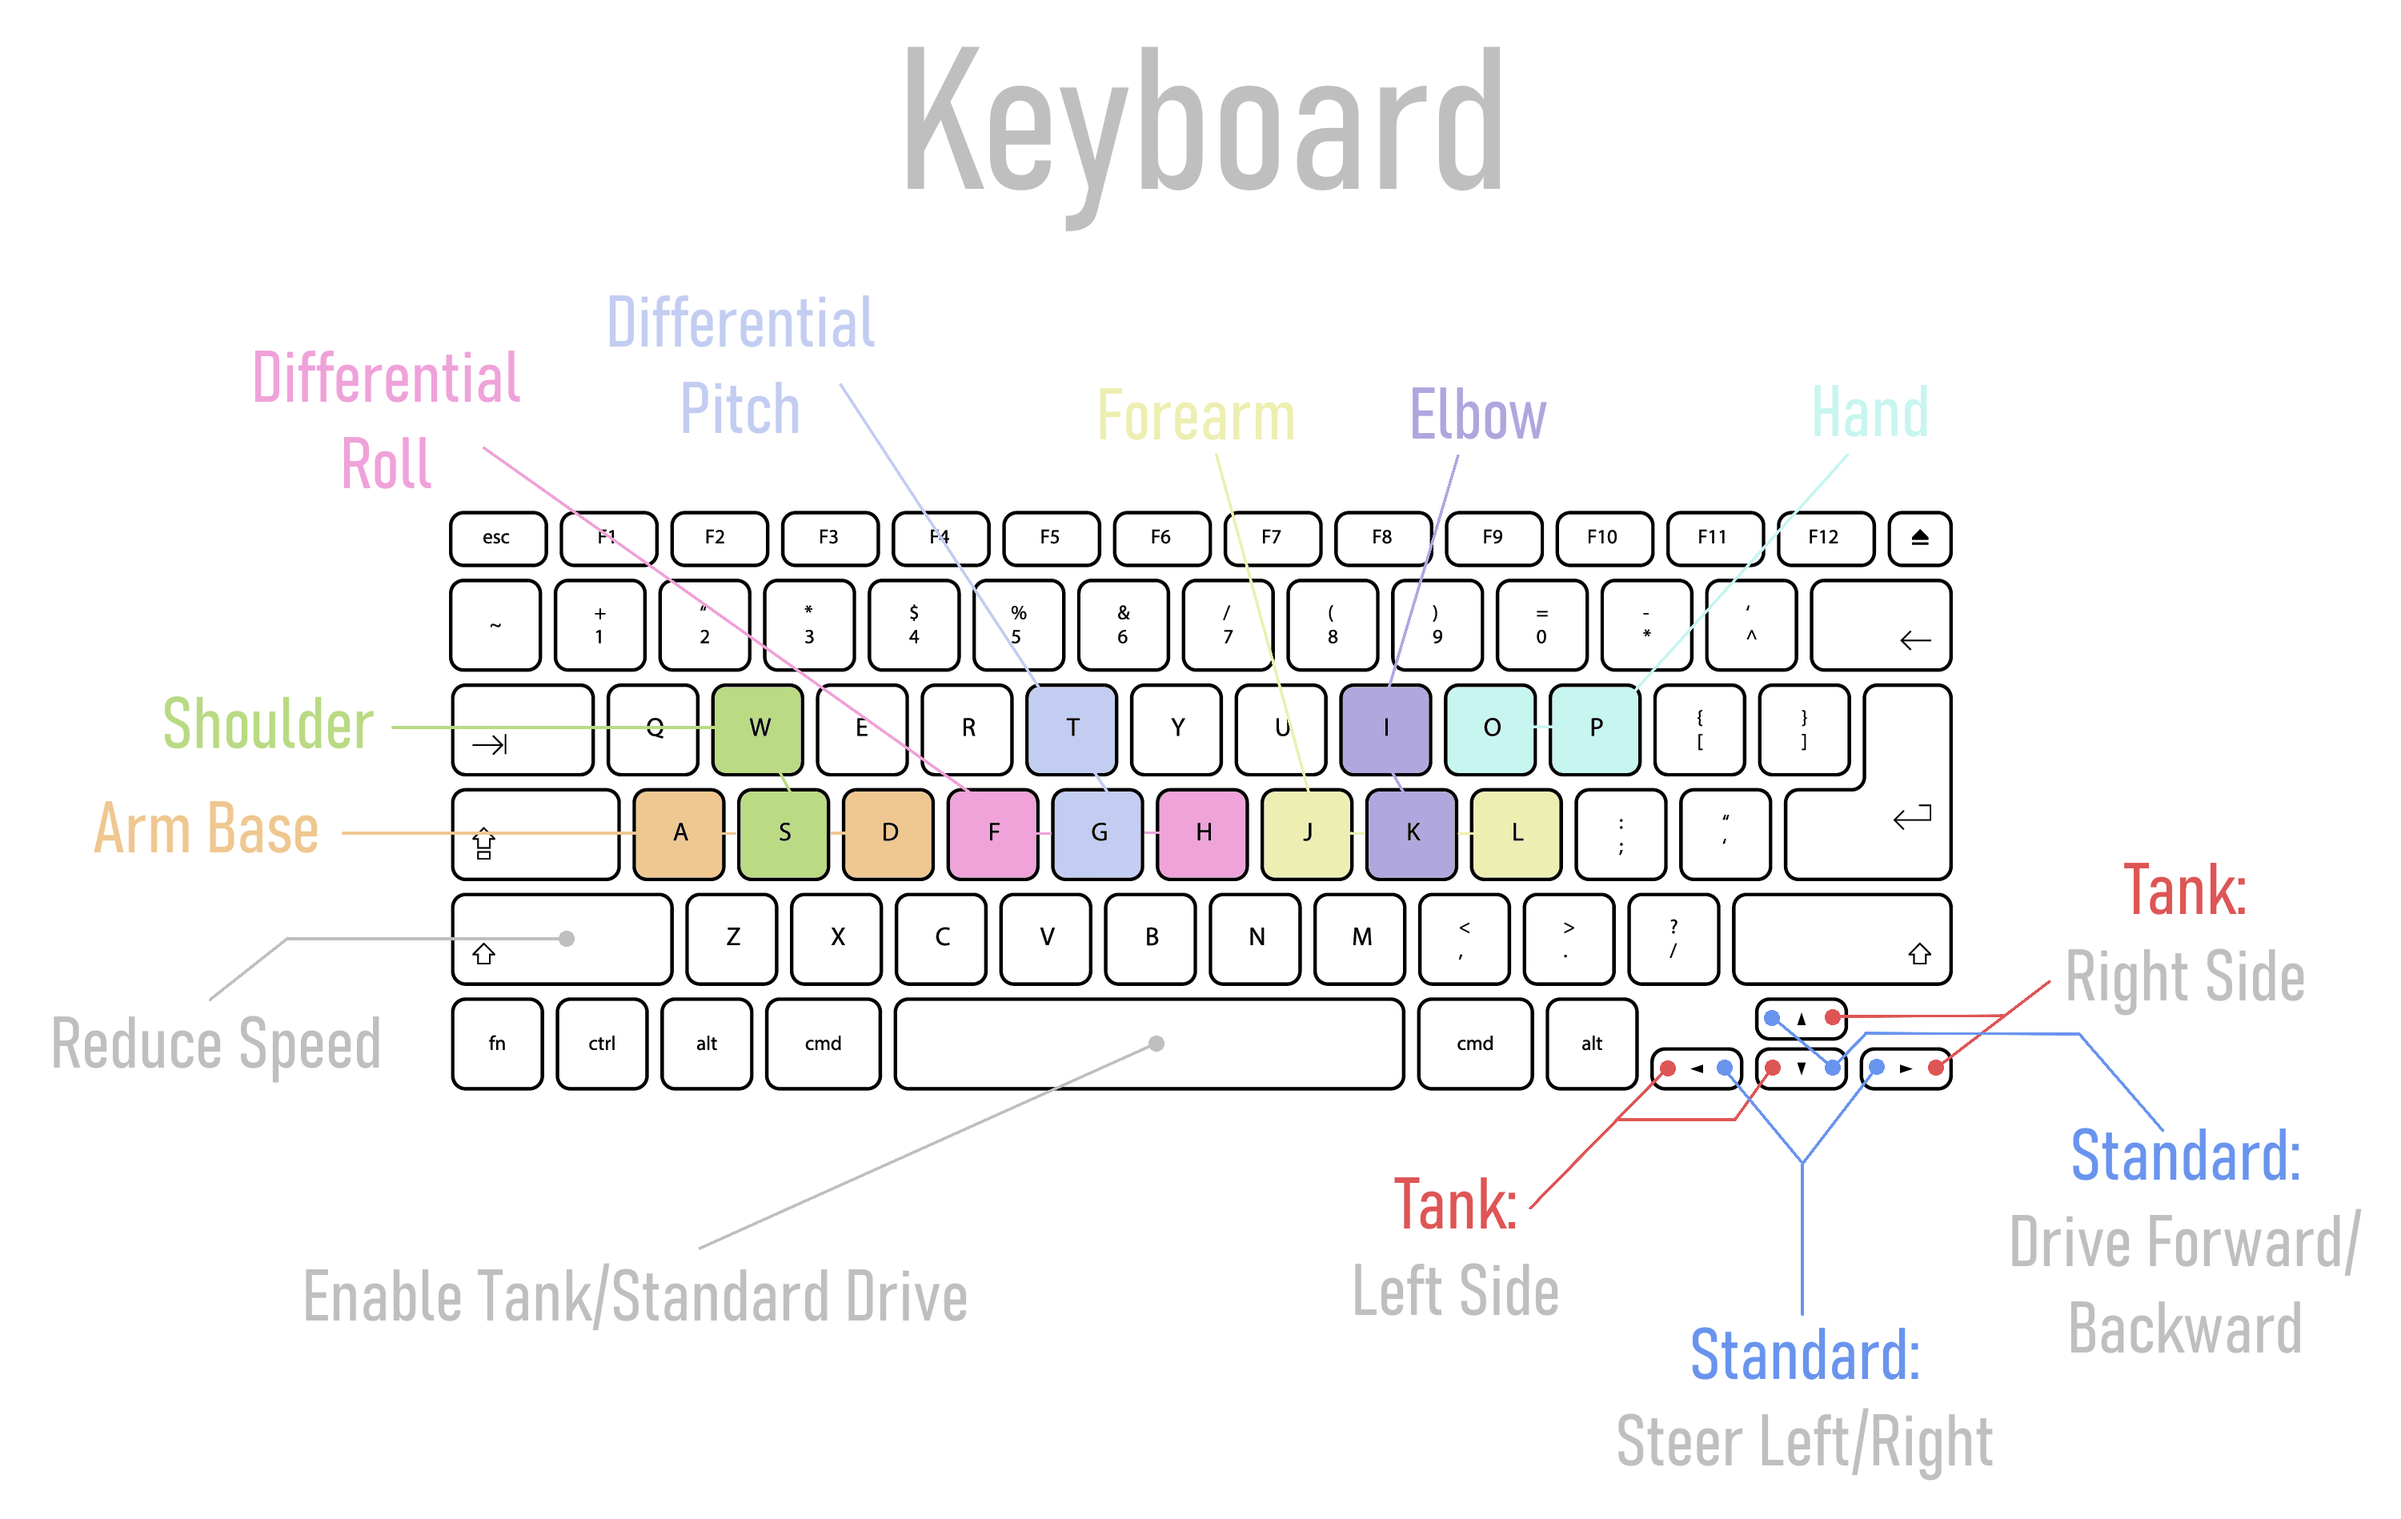
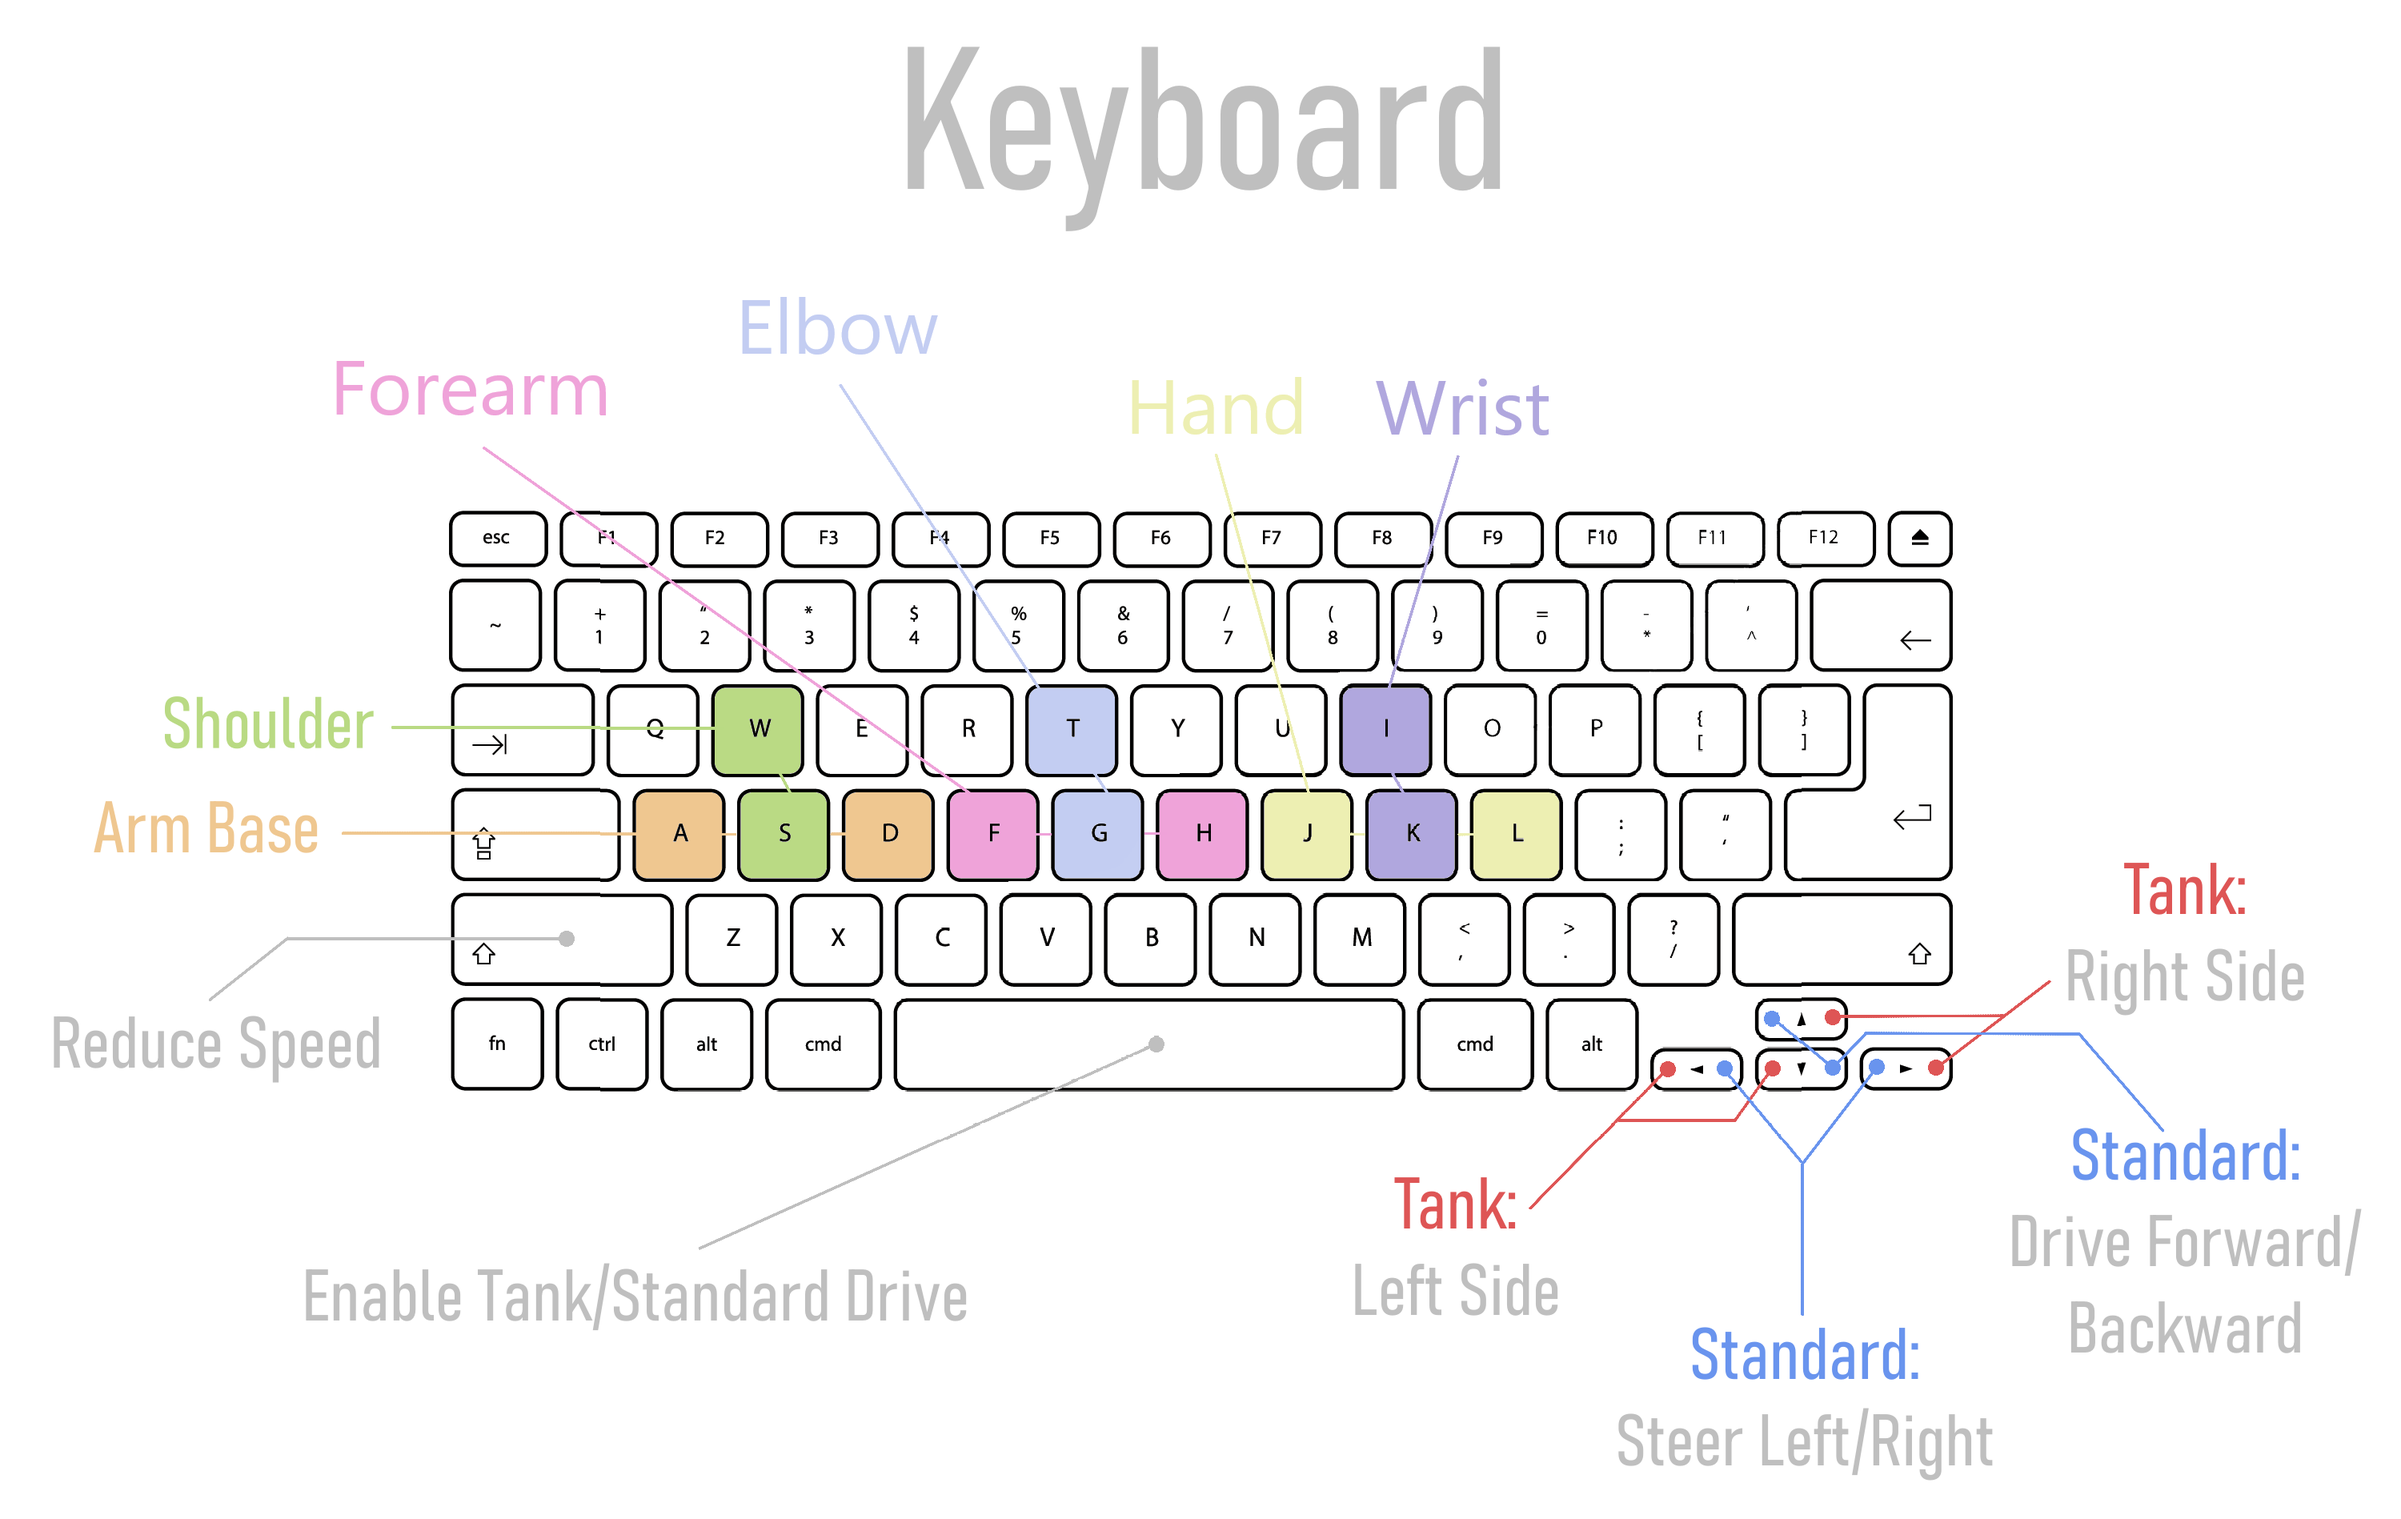
Fix arm rendering (#14)
* Update README to display new name for the wrist joint.

* Change any instances of 'differential' to 'wrist'

* Change control bindings

* Remove print statement

* Update help graphics

* Update messages version in README

* Reverse direction of wrist movement

diff --git a/src/store/inputSlice.js b/src/store/inputSlice.js
@@ -19,9 +19,7 @@ const gamepadTemplate = {
   "LB": false,
   "RB": false,
   "DPadUp": false,
-  "DPadDown": false,
-  "DPadLeft": false,
-  "DPadRight": false
+  "DPadDown": false
 };
 
 const initialState = {
@@ -44,8 +42,7 @@ const initialState = {
       shoulder: 0,
       elbow: 0,
       forearm: 0,
-      differentialRoll: 0,
-      differentialPitch: 0,
+      wrist: 0,
       hand: 0,
     },
     science: {
@@ -77,10 +74,7 @@ const inputSlice = createSlice({
       const { gamepadName, axisName, value } = action.payload;
       // linux maps dpad to axes, so map them to buttons
       // also rescale triggers from [-1,1] -> [0,1], if necessary
-      if (axisName === "DPadX") {
-        state[gamepadName]["DPadLeft"] = value < 0;
-        state[gamepadName]["DPadRight"] = value > 0;
-      } else if (axisName === "DPadY") {
+      if (axisName === "DPadY") {
         state[gamepadName]["DPadDown"] = value < 0;
         state[gamepadName]["DPadUp"] = value > 0;
       } else if (isLinux() && (axisName === "LeftTrigger" || axisName === "RightTrigger")) {
@@ -174,20 +168,17 @@ function computeArmInput(state) {
     getAxisFromKeys(pressedKeys, "S", "W");
   armInput.elbow =
     peripheralGamepad["RightStickY"] +
-    getAxisFromKeys(pressedKeys, "K", "I");
+    getAxisFromKeys(pressedKeys, "G", "T");
   armInput.forearm =
     peripheralGamepad["RightStickX"] +
-    getAxisFromKeys(pressedKeys, "J", "L");
+    getAxisFromKeys(pressedKeys, "F", "H");
+  armInput.wrist =
+    getAxisFromButtons(peripheralGamepad, "DPadDown", "DPadUp") +
+    getAxisFromKeys(pressedKeys, "K", "I");
   armInput.hand =
     peripheralGamepad["LeftTrigger"] -
     peripheralGamepad["RightTrigger"] +
-    getAxisFromKeys(pressedKeys, "P", "O");
-  armInput.differentialPitch =
-    getAxisFromButtons(peripheralGamepad, "DPadDown", "DPadUp") +
-    getAxisFromKeys(pressedKeys, "G", "T");
-  armInput.differentialRoll =
-    getAxisFromButtons(peripheralGamepad, "DPadLeft", "DPadRight") +
-    getAxisFromKeys(pressedKeys, "F", "H");
+    getAxisFromKeys(pressedKeys, "J", "L");
 
   // Apply precision controls and clamp.
   const armPrecisionMultiplier = getPrecisionMultiplier(pressedKeys, peripheralGamepad);

diff --git a/src/components/roverModel/RoverModel.js b/src/components/roverModel/RoverModel.js
@@ -14,7 +14,7 @@ import armBaseMesh from "./mesh/armBase.fbx";
 import lowerArmMesh from "./mesh/lowerArm.fbx";
 import upperArmMesh from "./mesh/upperArm.fbx";
 import forearmMesh from "./mesh/forearm.fbx";
-import differentialMesh from "./mesh/differential.fbx";
+import wristMesh from "./mesh/wrist.fbx";
 import handBaseMesh from "./mesh/handBase.fbx";
 import handLeftFingerMesh from "./mesh/handLeftFinger.fbx";
 import handRightFingerMesh from "./mesh/handRightFinger.fbx";
@@ -176,21 +176,20 @@ function Forearm() {
       position={[0, 4, 95]}
       rotation={[0, 0, degToRad(position)]}
     >
-      <Differential />
+      <Wrist />
     </primitive>
   );
 }
 
-function Differential() {
-  const mesh = useFBX(differentialMesh);
-  const differentialPitch = useSelector(selectJointCurrentPosition("differentialPitch"));
-  const differentialRoll = useSelector(selectJointCurrentPosition("differentialRoll"));
+function Wrist() {
+  const mesh = useFBX(wristMesh);
+  const position = useSelector(selectJointCurrentPosition("wrist"));
 
   return (
     <primitive
       object={mesh}
       position={[0, 0, 12.5]}
-      rotation={[degToRad(differentialPitch), 0, degToRad(differentialRoll)]}
+      rotation={[degToRad(-position), 0, 0]}
     >
       <Hand />
     </primitive>

diff --git a/src/store/jointsSlice.js b/src/store/jointsSlice.js
@@ -5,8 +5,7 @@ const jointNames = [
   "shoulder",
   "elbow",
   "forearm",
-  "differentialRoll",
-  "differentialPitch",
+  "wrist",
   "hand",
   "drillArm"
 ];

diff --git a/README.md b/README.md
@@ -147,7 +147,7 @@ Sent from Mission Control to instruct the rover server to make a joint move with
 ```
 {
   type: "jointPowerRequest",
-  joint: "armBase" | "shoulder" | "elbow" | "forearm" | "differentialRoll" | "differentialPitch" | "hand" | "drillArm",
+  joint: "armBase" | "shoulder" | "elbow" | "forearm" | "wrist" | "hand" | "drillArm",
   power: number
 }
 ```
@@ -164,7 +164,7 @@ Sent from Mission Control to instruct the rover server to make a joint move to a
 ```
 {
   type: "jointPositionRequest",
-  joint: "armBase" | "shoulder" | "elbow" | "forearm" | "differentialRoll" | "differentialPitch" | "hand" | "drillArm",
+  joint: "armBase" | "shoulder" | "elbow" | "forearm" | "wrist" | "hand" | "drillArm",
   position: number
 }
 ```
@@ -181,7 +181,7 @@ Sent from the rover server to inform Mission Control of a joint's current positi
 ```
 {
   type: "jointPositionReport",
-  joint: "armBase" | "shoulder" | "elbow" | "forearm" | "differentialRoll" | "differentialPitch" | "hand" | "drillArm",
+  joint: "armBase" | "shoulder" | "elbow" | "forearm" | "wrist" | "hand" | "drillArm",
   position: number
 }
 ```
